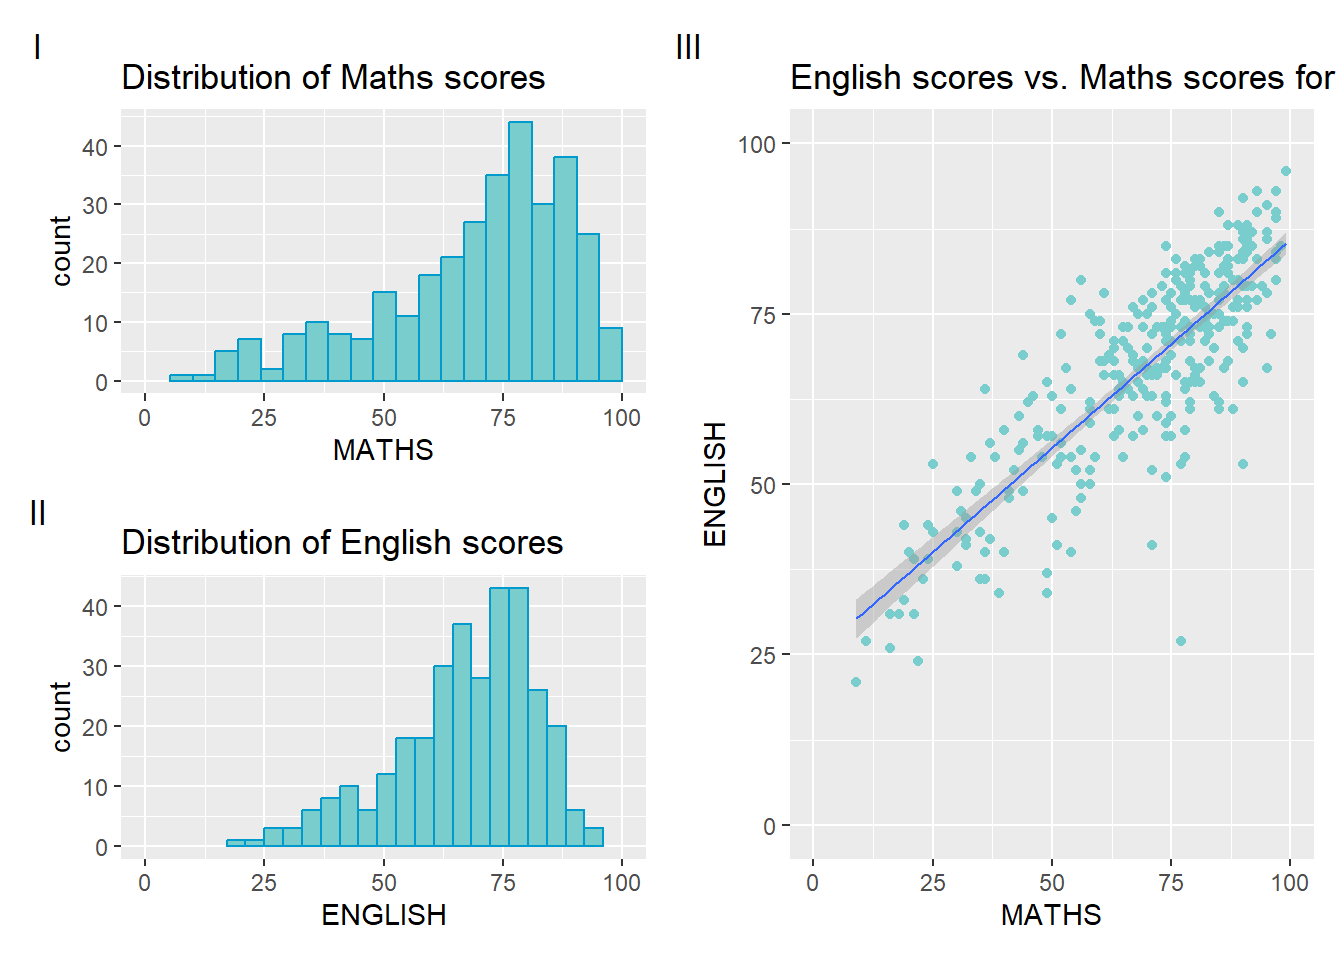
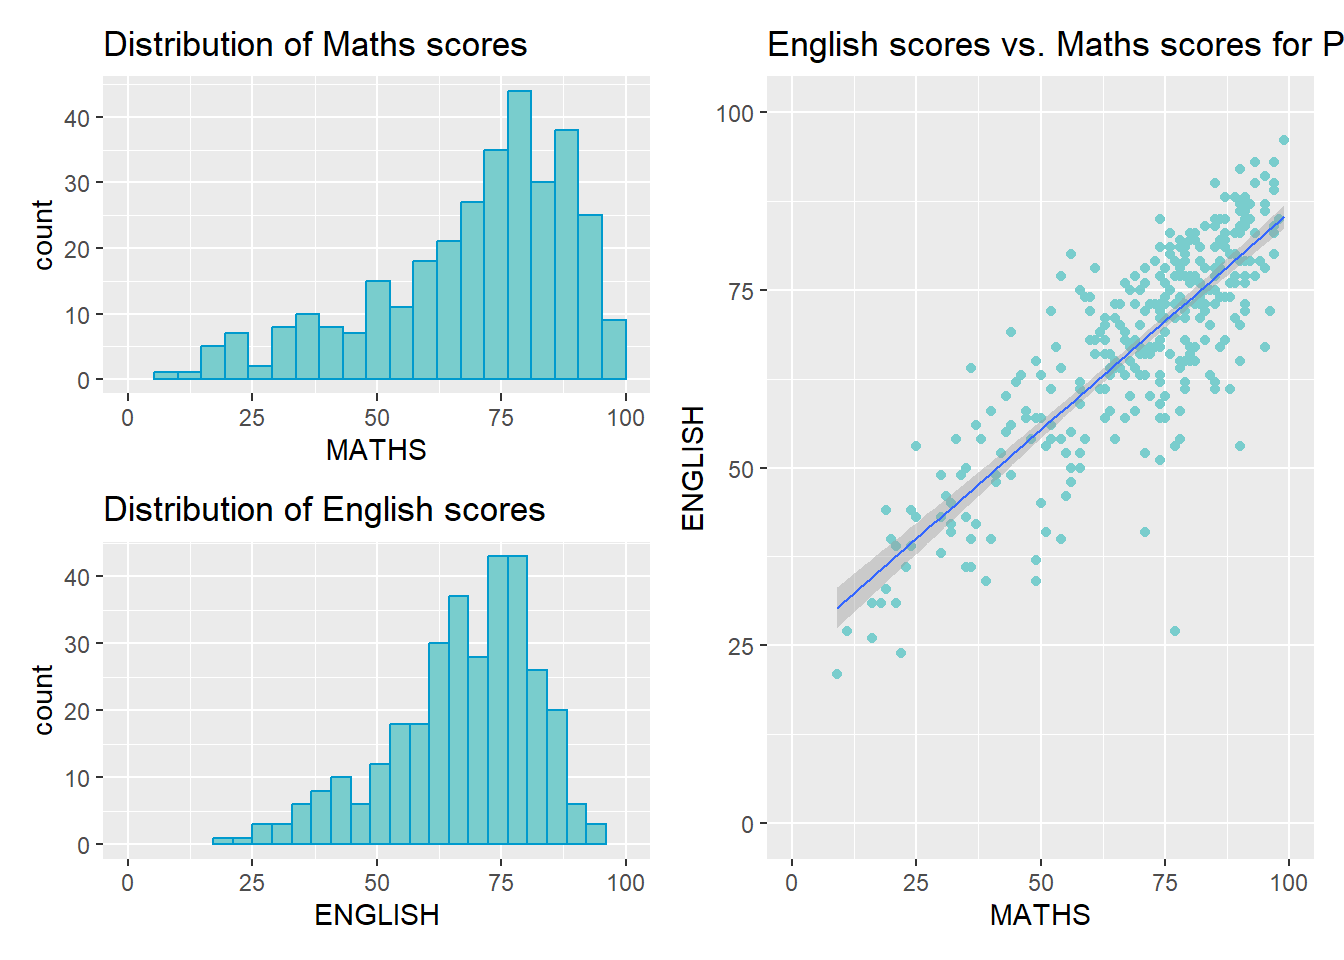
commit after handson exercise2.3

diff --git a/_site/Handson_Ex/handson_ex02/Hands-on_Ex02.html b/_site/Handson_Ex/handson_ex02/Hands-on_Ex02.html
@@ -130,15 +130,15 @@ pre > code.sourceCode > span > a:first-child::before { text-decoration: underlin
     <ul class="dropdown-menu" aria-labelledby="nav-menu-hands-on-exercise">    
         <li>
     <a class="dropdown-item" href="../../Handson_Ex/handson_ex00/Hands-on_Ex00.html">
- <span class="dropdown-text">Hands-on Exercise 00</span></a>
+ <span class="dropdown-text">Hands-on Exercise 0</span></a>
   </li>  
         <li>
     <a class="dropdown-item" href="../../Handson_Ex/handson_ex01/Hands-on_Ex01.html">
- <span class="dropdown-text">Hands-on Exercise 01</span></a>
+ <span class="dropdown-text">Hands-on Exercise 1</span></a>
   </li>  
         <li>
     <a class="dropdown-item" href="../../Handson_Ex/handson_ex02/Hands-on_Ex02.html">
- <span class="dropdown-text">Hands-on Exercise 02</span></a>
+ <span class="dropdown-text">Hands-on Exercise 2</span></a>
   </li>  
     </ul>
   </li>
@@ -573,8 +573,7 @@ pre > code.sourceCode > span > a:first-child::before { text-decoration: underlin
 </div>
 <div id="tabset-11-2" class="tab-pane" role="tabpanel" aria-labelledby="tabset-11-2-tab">
 <div class="cell">
-<div class="sourceCode cell-code" id="cb13"><pre class="sourceCode r code-with-copy"><code class="sourceCode r"><span id="cb13-1"><a href="#cb13-1" aria-hidden="true" tabindex="-1"></a>((p1 <span class="sc">/</span> p2) <span class="sc">|</span> p3) <span class="sc">+</span> </span>
-<span id="cb13-2"><a href="#cb13-2" aria-hidden="true" tabindex="-1"></a>  <span class="fu">plot_annotation</span>(<span class="at">tag_levels =</span> <span class="st">'I'</span>)</span></code><button title="Copy to Clipboard" class="code-copy-button"><i class="bi"></i></button></pre></div>
+<div class="sourceCode cell-code" id="cb13"><pre class="sourceCode r code-with-copy"><code class="sourceCode r"><span id="cb13-1"><a href="#cb13-1" aria-hidden="true" tabindex="-1"></a>(p1 <span class="sc">/</span> p2) <span class="sc">|</span> p3</span></code><button title="Copy to Clipboard" class="code-copy-button"><i class="bi"></i></button></pre></div>
 </div>
 </div>
 </div>
